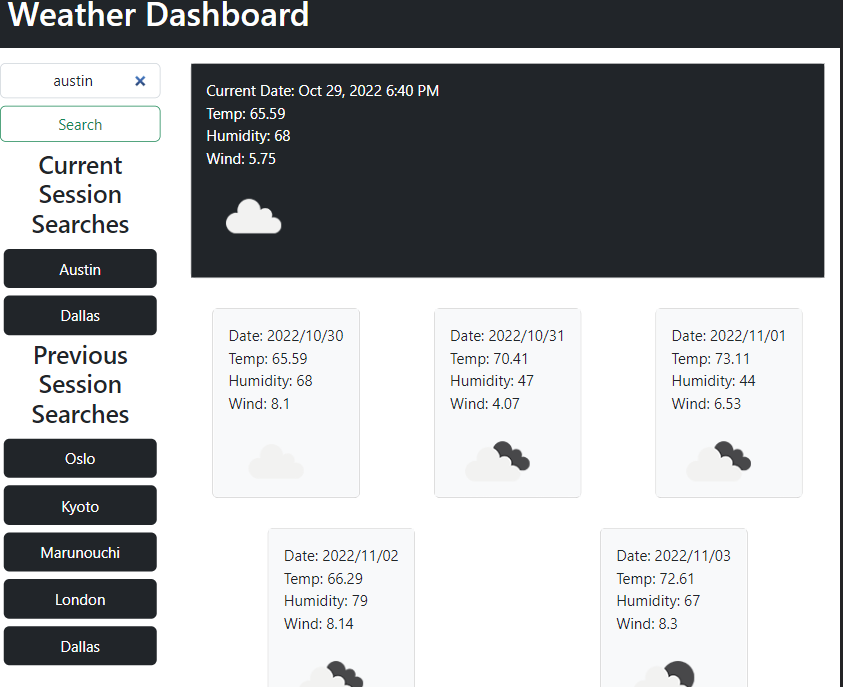
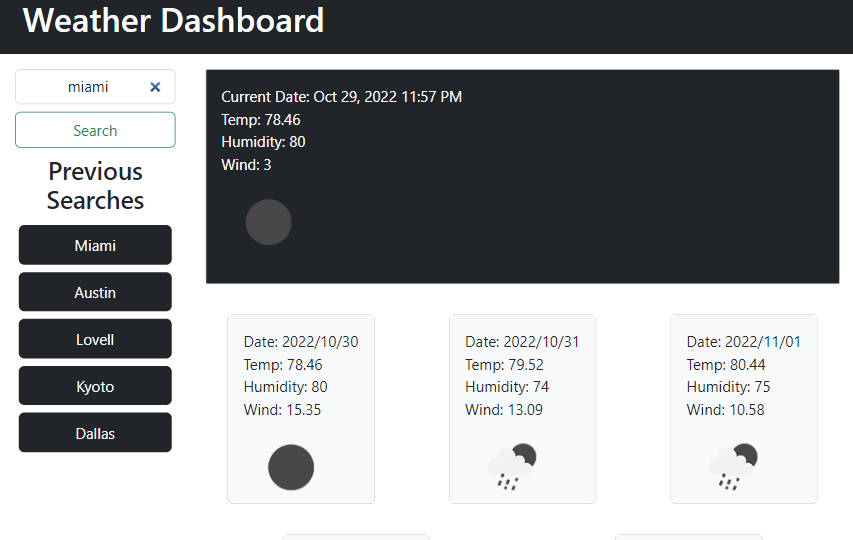
fixed history functionality

diff --git a/assets/script.js b/assets/script.js
@@ -9,7 +9,6 @@ var currentWeatherContainer = document.getElementById("currentWeatherCard")
 
 
 
-
 // search button handler
 document.getElementById("searchBtn").addEventListener("click", function(event) {
     // prevents click default behavior
@@ -48,32 +47,33 @@ function weatherData() {
                 console.log(data)
                 currentWeatherContainer.innerText = ""
 
-                                // create weathercard HTML
-                                var currentWeatherDiv = document.createElement("div")
-                                currentWeatherContainer.appendChild(currentWeatherDiv)
-                                currentWeatherDiv.classList.add("card")
-                                currentWeatherDiv.classList.add("m-3")
-                                var currentWeatherBody = document.createElement("div")
-                                currentWeatherDiv.appendChild(currentWeatherBody)
-                                currentWeatherBody.classList.add("card-body")
-                                var currentWeatherData = data.main
-                                // uses momentJS to convert weather
-                                var dateResults  = moment(currentWeatherData.dt).format('lll')
-                                // appends weather data
-                                var date = ("Current Date: " + dateResults )
-                                var temp = ("Temp: " + data.main.temp + "\n")
-                                var humidity = ("Humidity: " + data.main.humidity + "\n")
-                                var wind = ("Wind:  " + data.wind.speed + "\n")
-                                var currentWeatherIcon = data.weather[0].icon
-                                var currentimg = document.createElement("img")
-                                currentimg.src = "http://openweathermap.org/img/wn/"+ currentWeatherIcon + "@" + "2x.png"
-                                currentWeatherBody.innerHTML = date + "<br/>"  + temp + "<br/>"  + humidity + "<br/>"  + wind +  "<br/>"  
-                                currentWeatherBody.append(currentimg)
-                                // styling
-                                currentWeatherBody.classList.add("bg-dark")
-                                currentWeatherBody.classList.add("text-white")
-                                currentWeatherBody.style.minWidth = "155px"
-                                currentWeatherBody.style.minHeight = "200px"
+                // create weathercard HTML
+                var currentWeatherDiv = document.createElement("div")
+                currentWeatherContainer.appendChild(currentWeatherDiv)
+                currentWeatherDiv.classList.add("card")
+                currentWeatherDiv.classList.add("m-3")
+                var currentWeatherBody = document.createElement("div")
+                currentWeatherDiv.appendChild(currentWeatherBody)
+                currentWeatherBody.classList.add("card-body")
+                var currentWeatherData = data.main
+                // uses momentJS to convert weather
+                var dateResults  = moment(currentWeatherData.dt).format('lll')
+                // appends weather data
+                var date = ("Current Date: " + dateResults )
+                var temp = ("Temp: " + data.main.temp + "\n")
+                var humidity = ("Humidity: " + data.main.humidity + "\n")
+                var wind = ("Wind:  " + data.wind.speed + "\n")
+                //grabs weather icon for url
+                var currentWeatherIcon = data.weather[0].icon
+                var currentimg = document.createElement("img")
+                currentimg.src = "http://openweathermap.org/img/wn/"+ currentWeatherIcon + "@" + "2x.png"
+                currentWeatherBody.innerHTML = date + "<br/>"  + temp + "<br/>"  + humidity + "<br/>"  + wind +  "<br/>"  
+                currentWeatherBody.append(currentimg)
+                // styling
+                currentWeatherBody.classList.add("bg-dark")
+                currentWeatherBody.classList.add("text-white")
+                currentWeatherBody.style.minWidth = "155px"
+                currentWeatherBody.style.minHeight = "200px"
 
 
             })
@@ -83,28 +83,6 @@ function weatherData() {
             localStorage.setItem("index", increm)
             // stores current increment value and city name
             localStorage.setItem(increm, data["city"].name)
-            // creates current session searches 
-            var recentInput = document.createElement("button")
-            // appends current session searches to html
-            document.getElementById("sessionSearchesContainer").appendChild(recentInput)
-            // unhides section
-            document.getElementById("sessionSearchesHeader").classList.remove("invisible")
-            // styling
-            recentInput.classList.add("bg-dark")
-            recentInput.classList.add("text-white")
-            recentInput.classList.add("btn")
-            recentInput.classList.add("m-1")
-            recentInput.classList.add("p-2")
-            recentInput.setAttribute('id', "history" + i)
-            recentInput.innerText = data.city.name
-            
-            var HistoryButtons = document.querySelectorAll("button:not(#searchBtn)")
-            // event listner for history buttons
-            HistoryButtons.forEach(function(button) {
-                button.addEventListener("click", function() {
-                    document.getElementById("searchInput").value = button.innerText
-                })              
-            })
 
 
             // blanks weather carderText = ""
@@ -144,9 +122,13 @@ function weatherData() {
     }
 )} 
 
+
+// interval to check if new item in localstorage
+setInterval(function() {
+    historyContainer.innerText = ""   
 // history handler using localstorage. uses previous incrememnted index stored in localstorage
 for (var i = localStorage.index;  i > 0 ; i--) {
-    // returns only 5 items from local storage
+     // returns only 5 items from local storage
     if (i === localStorage.index - 5) {
         break
     } else
@@ -163,20 +145,27 @@ for (var i = localStorage.index;  i > 0 ; i--) {
     lineItem.classList.add("p-2")
     lineItem.setAttribute('id', "history" + i)
     lineItem.innerText = searchHistoryItem
+} 
 
+} 
+}, 1000)
+
+
+
+// interval to add event listeners to history buttons and any newly added history buttons
+setInterval( () => {
     var allHistoryButtons = document.querySelectorAll("button:not(#searchBtn)")
     // eventlistener for history buttons
     allHistoryButtons.forEach(function(button) {
         button.addEventListener("click", function() {
-            document.getElementById("searchInput").value = button.innerText
-
+            document.getElementById("searchInput").value = this.innerText
+            document.getElementById("searchBtn").click()
+            
         })
         
     }
     )
-} 
-
-}
+},1000
 
 
-
+)

diff --git a/index.html b/index.html
@@ -22,11 +22,7 @@
             <input class="form-control mb-2" type="search" placeholder="Search City" aria-label="Search" id="searchInput" style="text-align: center">
             <button class="btn btn-outline-success mb-2" type="submit" id="searchBtn">Search</button>
         </form>
-            <h3 class=" d-flex flex-column invisible w-100 text-center" id="sessionSearchesHeader">Current Session Searches</h3>
-                <div class="d-flex flex-column-reverse  w-100 text-center" id="sessionSearchesContainer">
-
-                </div>
-            <h3 class=" d-flex flex-column invisible w-100 text-center"   id="prevSearchesHeader">Previous Session Searches</h3>
+            <h3 class=" d-flex flex-column invisible w-100 text-center"   id="prevSearchesHeader">Previousgi Searches</h3>
                 <div class="d-flex flex-column" id="histContainer">
                 </div>
     </section>
